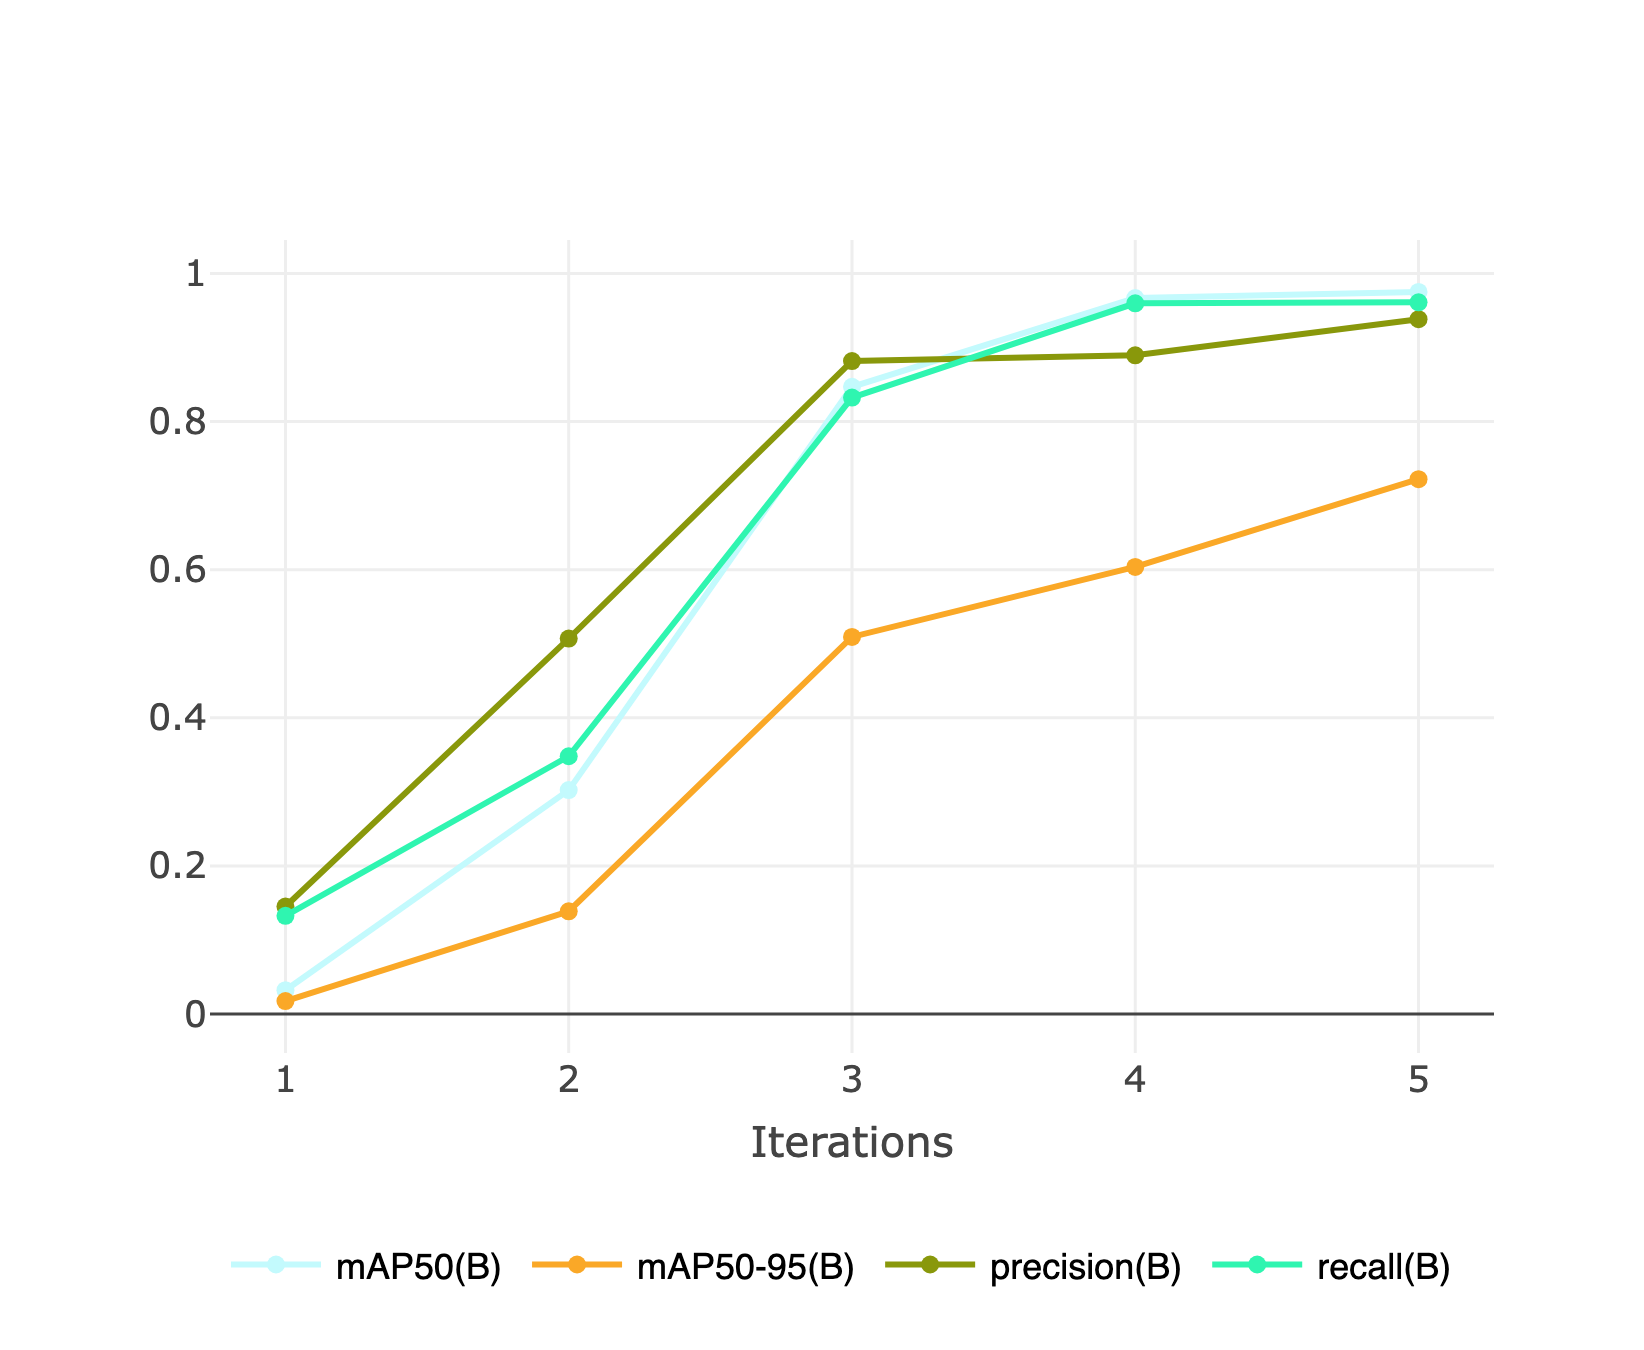
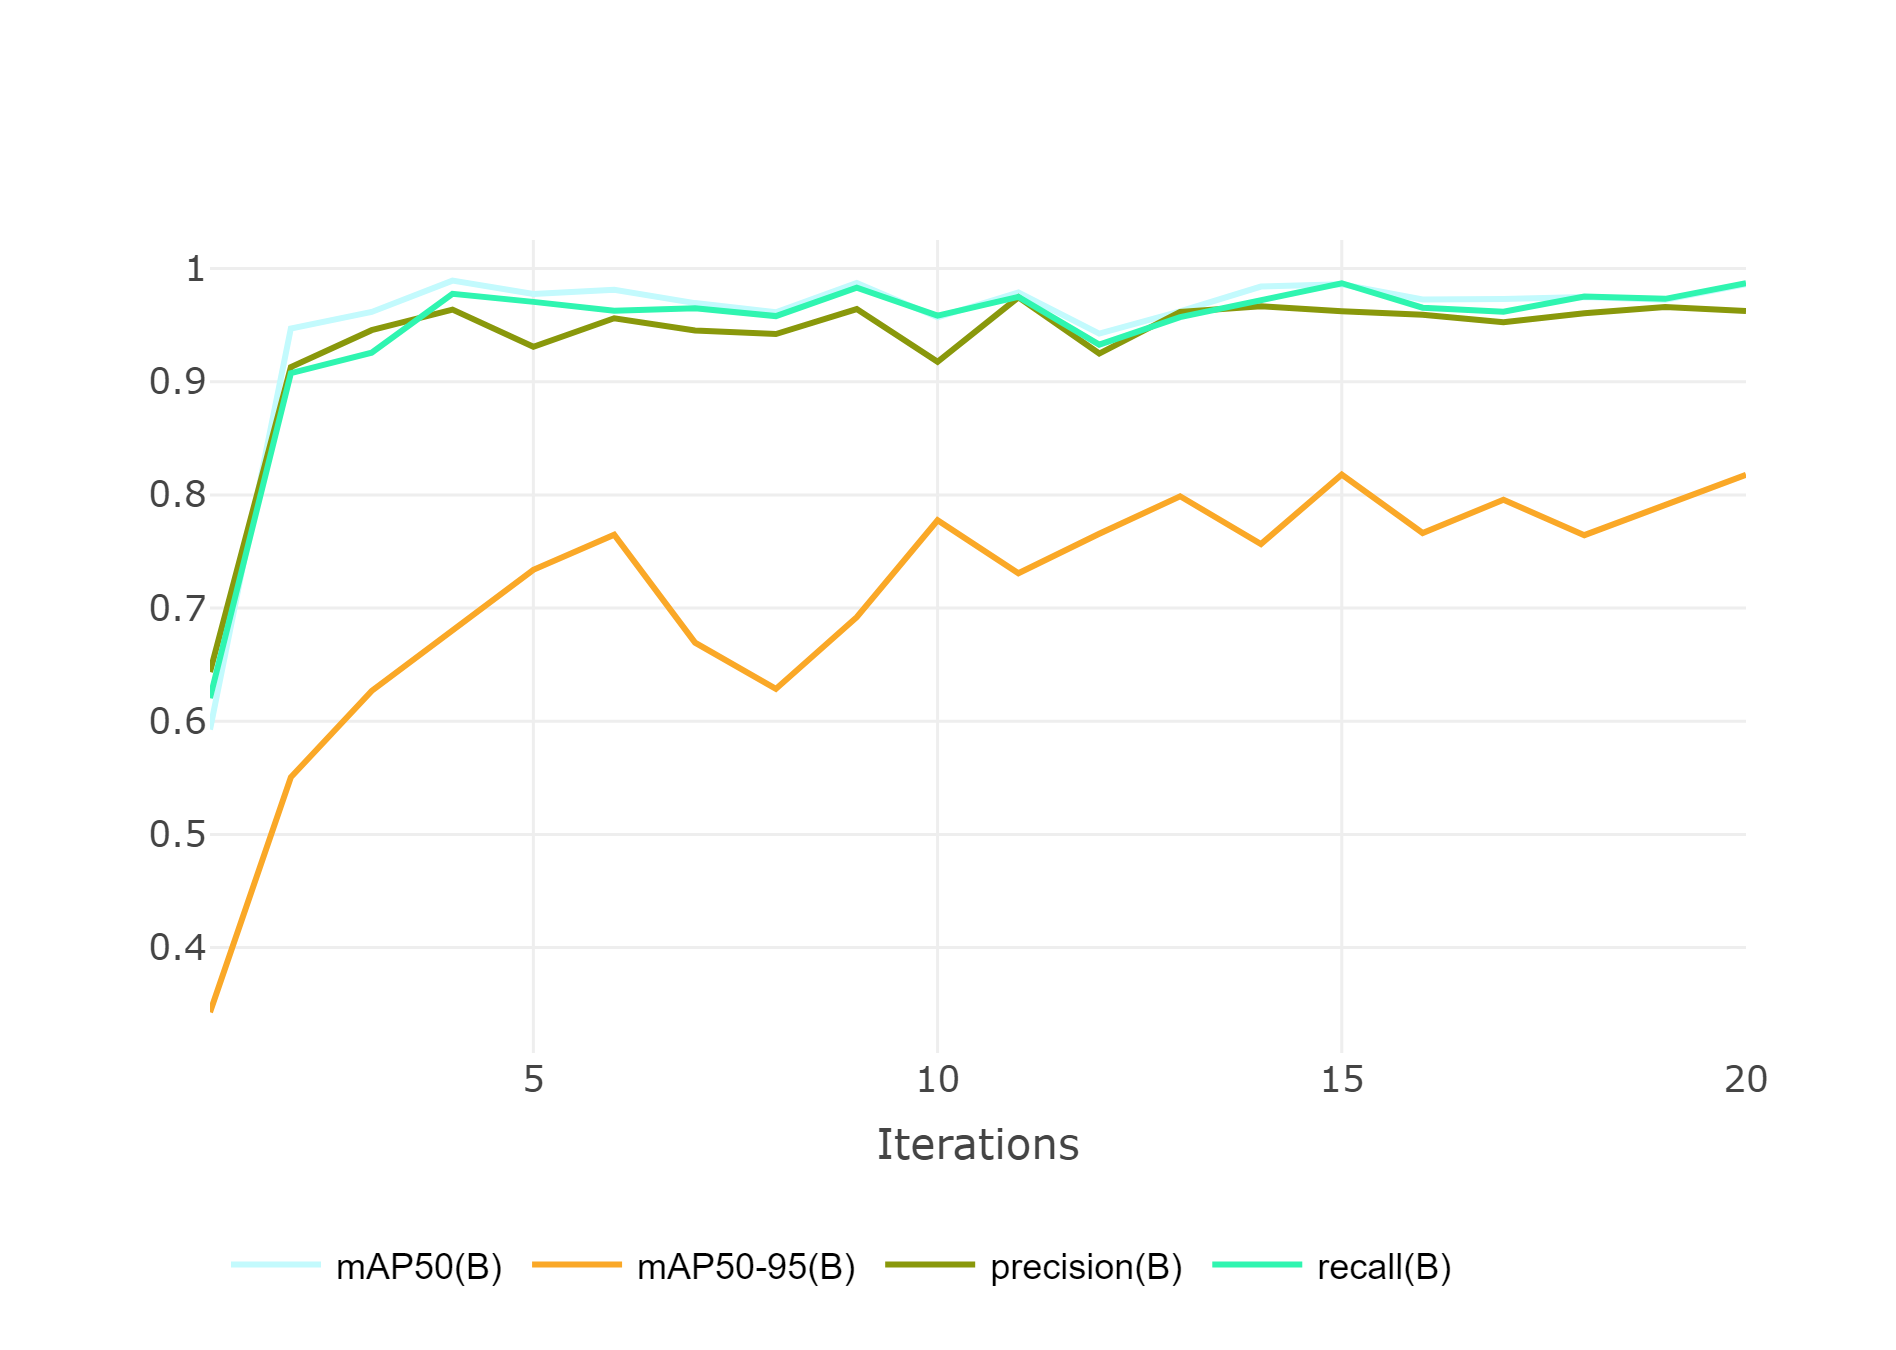
update rt-detr metrics

diff --git a/README.md b/README.md
@@ -54,7 +54,7 @@
 | model   | precision | recall | mAP50|speed(ms)
 |---------|-----------|--------|------|-----|
  | YOLOv8  | 0.98      | 0.96   |0.975| 5|
- | RT-DETR |0.94|0.96|0.975|16.8|
+ | RT-DETR |0.96|0.99|0.986|17.5|
 
 #### График метрик YOLOv8
 ![График метрик YOLOv8](https://github.com/Rustemhak/dl-pract-ai-talent-hub/blob/main//metrics/metrics_YOLOv8.png)
@@ -67,9 +67,8 @@
 
 model | precision | recall | mAP50 |speed(ms)
 ----|-------|---|-------|----
-Adam| 0.77      | 0.81  | 0.81  | 16.2|
-SGD |0.94|0.96| 0.975 |16.8
-AdamW|0.766|0.88|0.86|16
+SGD |0.963|0.981| 0.989 |17.5
+AdamW|0.962|0.987|0.986|17.5
 
 </details>
 
